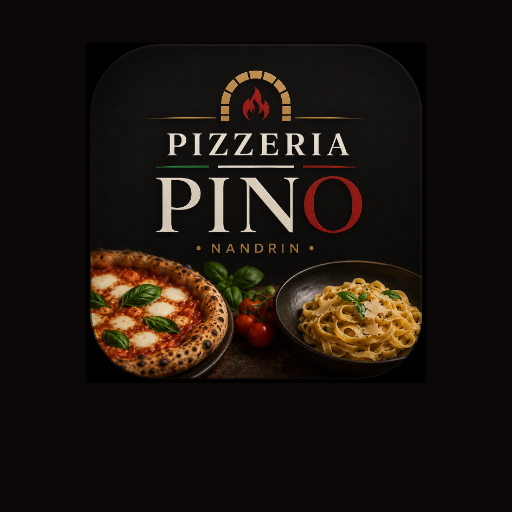
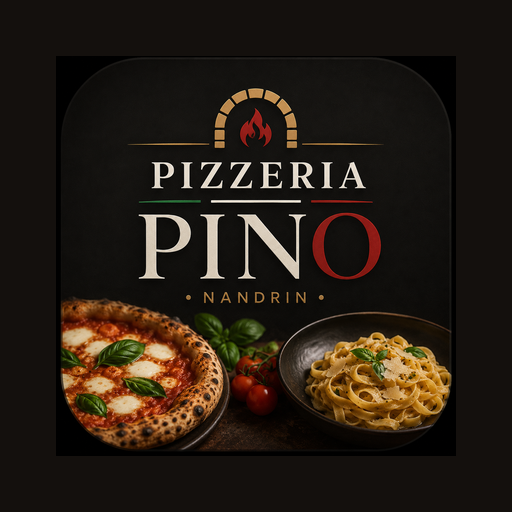
PWA : icône recentrée plein cadre + nom app en majuscules (PIZZERIA PINO)
Claude-Session: https://claude.ai/code/session_01M6T47i64KeJNrfj7mLuw61

Changed region(s): [[0.0938, 0.125, 0.9062, 0.875]]

diff --git a/index.html b/index.html
@@ -18,7 +18,7 @@
 <meta name="mobile-web-app-capable" content="yes">
 <meta name="apple-mobile-web-app-capable" content="yes">
 <meta name="apple-mobile-web-app-status-bar-style" content="black">
-<meta name="apple-mobile-web-app-title" content="Pizzeria Pino">
+<meta name="apple-mobile-web-app-title" content="PIZZERIA PINO">
 
 <!-- Référencement local (Google Business / cartes) -->
 <meta name="geo.region" content="BE-WLG">

diff --git a/sw.js b/sw.js
@@ -1,5 +1,5 @@
 /* Service worker Pizzeria Pino — réseau d'abord, cache en secours (hors-ligne). */
-var CACHE = 'pino-v3';
+var CACHE = 'pino-v4';
 var CORE = [
   './', './index.html', './legal.html', './manifest.webmanifest',
   './icons/icon-512.png', './icons/icon-maskable-512.png', './icons/apple-touch-icon.png',
